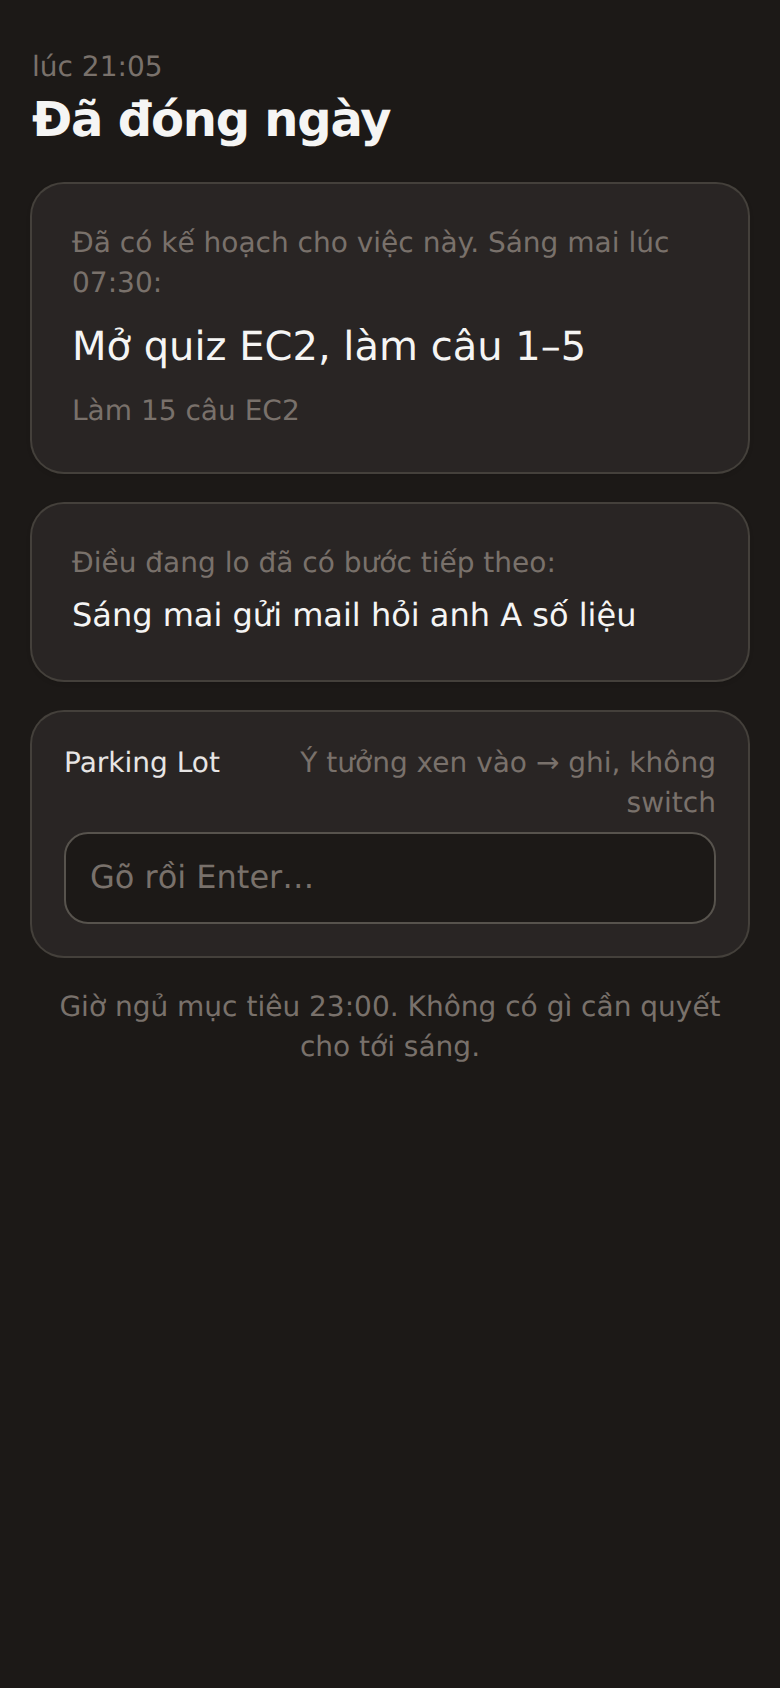
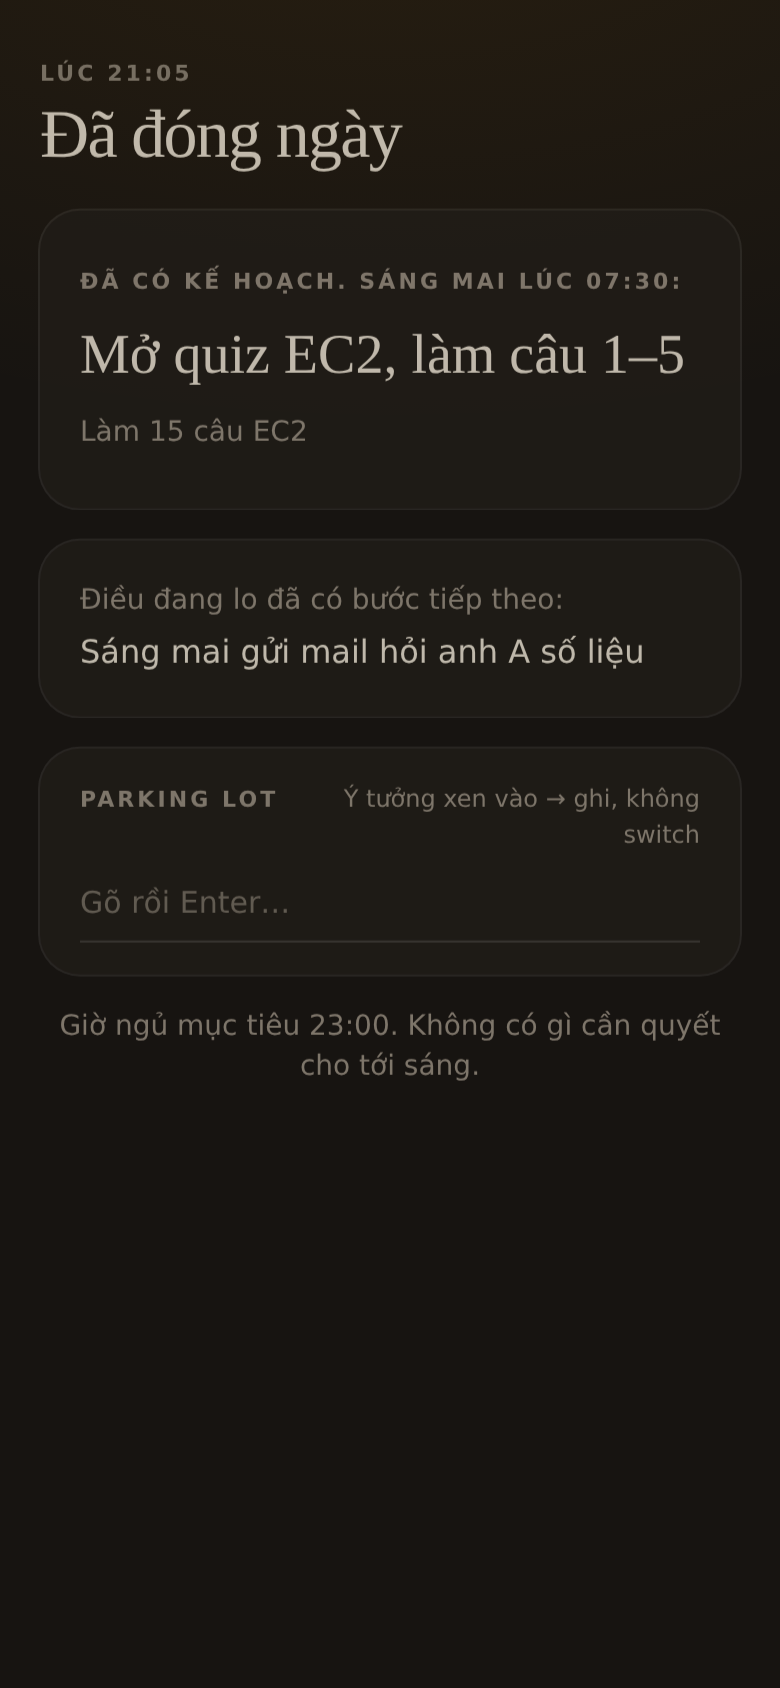
docs: README for v0.2 (i18n, calendar, breaks, Supabase setup), plan status, new screenshots
Claude-Session: https://claude.ai/code/session_01BCiC3tnhB7K4xh2K39qLye

diff --git a/README.md b/README.md
@@ -1,72 +1,95 @@
-# Một Việc
+# Một Việc · One Task
 
 Web app cá nhân chống trì hoãn: **một việc chính mỗi ngày, đóng ngày đúng giờ, quay lại khi trượt**.
+Local-first, cài được lên điện thoại (PWA), tiếng Việt / English, đồng bộ cloud tuỳ chọn qua Supabase free.
 
 Tài liệu: [01 · nghiên cứu](docs/01-research.md) · [02 · brainstorm](docs/02-brainstorm.md) · [03 · plan](docs/03-plan.md) · [parking lot của dự án](docs/parking-lot.md)
 
-| Sáng (1 phút) | Trong ngày | Đóng ngày (3 phút) → Night mode |
-|---|---|---|
-| ![](docs/screenshots/03-morning.png) | ![](docs/screenshots/06-today-timer.png) | ![](docs/screenshots/10-night.png) |
+| Sáng | Trong ngày | Gợi ý nghỉ | Night mode |
+|---|---|---|---|
+| ![](docs/screenshots/03-morning.png) | ![](docs/screenshots/06-today-timer.png) | ![](docs/screenshots/06b-break-suggested.png) | ![](docs/screenshots/10-night.png) |
+
+| Lịch (nhìn lại) | Lịch (đặt việc) | Tuần | Dark mode |
+|---|---|---|---|
+| ![](docs/screenshots/14-calendar-past.png) | ![](docs/screenshots/15-calendar-planned.png) | ![](docs/screenshots/12-week.png) | ![](docs/screenshots/06-today-timer-dark.png) |
 
 ## Vòng đời một ngày
 
-1. **Sáng**: app hiện đúng 1 dòng *Next Action* và hỏi "hôm qua ngủ lúc mấy giờ". Hai nút: **Bắt đầu 10 phút** hoặc **Huỷ…**. Không list, không sửa kế hoạch.
-2. **Trong ngày**: một việc chính, timer đếm ngược. Hết 10 phút app hỏi "thêm 15?" chứ không hỏi "xong chưa?". Tick đủ *Definition of Done* → đóng việc. Ý tưởng xen vào → gõ vào **Parking Lot**, Enter, quay lại. Không có nút Hoãn.
-3. **Huỷ…**: hiện lại đúng câu *hậu quả* bạn tự viết, bắt đọc 5 giây, rồi chọn lý do. "Không muốn làm" chỉ có một nút: *Làm 10 phút rồi quyết*.
-4. **Đóng ngày** (mặc định 21:00): 5 bước. Việc hôm nay xong chưa → *Next Action* cho mai (bắt buộc) → quét Parking Lot về 0 → 1 lo lắng + 1 bước tiếp theo → Đóng.
-5. **Night mode**: khoá tới 04:00. Không tạo, không sửa, không xem list. Chỉ còn ô Parking Lot và câu "Đã có kế hoạch. Sáng mai lúc 07:30: …".
-6. **Tuần**: tối đa 2 mục tiêu (nút Thêm biến mất khi đủ). Review: ngày có ≥10' việc chính, đóng ngày đúng giờ, ngủ so với mục tiêu, **số lần quay lại sau ngày trống** (không có streak), số lần dời việc.
+1. **Sáng**: đúng 1 dòng *bước đầu tiên*, hỏi "hôm qua ngủ lúc mấy giờ". Hai nút: **Bắt đầu 10 phút** hoặc **Huỷ…**. Không list.
+2. **Trong ngày**: một việc chính, timer đếm ngược. Hết 10 phút app hỏi "thêm 15?" chứ không hỏi "xong chưa?". Tập trung liền 25 phút thì gợi ý **nghỉ 5 phút** (không bắt buộc, phút nghỉ không tính vào phút làm). Ý tưởng xen vào → **Parking Lot**, Enter, quay lại. Không có nút Hoãn.
+3. **Huỷ…**: nếu bạn đã viết *hậu quả*, app hiện lại đúng câu đó và bắt đọc 5 giây, rồi chọn lý do. "Không muốn làm" chỉ có một nút: *Làm 10 phút rồi quyết*.
+4. **Đóng ngày** (mặc định 21:00): 5 bước. Việc hôm nay xong chưa → việc chính cho mai → quét Parking Lot về 0 → 1 lo lắng + 1 bước tiếp theo → Đóng.
+5. **Night mode**: khoá tới 04:00. Không tạo, không sửa, không xem list. Chỉ còn ô Parking Lot và "Đã có kế hoạch. Sáng mai lúc 07:30: …".
+6. **Lịch**: quá khứ chỉ đọc (ô tô màu theo có làm, chấm xanh đóng ngày đúng giờ, chấm đỏ ngủ muộn). Tương lai tối đa **14 ngày**: đặt đúng một việc chính cho ngày đó. Xa hơn: app bảo ghi vào Parking Lot.
+7. **Tuần**: tối đa 2 mục tiêu. Review: ngày có ≥10′ việc chính, đóng ngày đúng giờ, ngủ so với mục tiêu, **số lần quay lại sau ngày trống** (không có streak), số lần dời việc.
 
-Tạo việc bắt buộc 5 trường: **Việc** (động từ + đếm được; bộ lọc mơ hồ chặn "Học AWS", nhận "Làm 20 câu S3") · **DoD** (mỗi dòng 1 mục kiểm được) · **Hậu quả nếu không làm** · **Ước lượng** (≤ 90 phút, quá thì bắt tách) · **Next Action**.
+Tạo việc chỉ cần **tên việc**. Bước đầu tiên, khi nào gọi là xong, hậu quả, ước lượng đều tuỳ chọn, chỉ có gợi ý ngắn. Tên mơ hồ ("Học AWS") được gợi ý nhẹ, không bị chặn.
 
 ## Chạy
 
 ```bash
 npm install
 npm run dev        # http://localhost:5173/
-npm test           # 47 test Vitest (logic + Dexie trên fake-indexeddb)
+npm test           # Vitest: logic thuần + Dexie trên fake-indexeddb + sync engine với remote giả
 npm run build      # tsc + vite build + service worker
 ```
 
-Test/demo bằng giờ giả lập (giữ trong tab cho tới khi `?reset-clock`):
+Giả lập thời gian để xem mọi màn hình (giữ trong tab cho tới khi `?reset-clock`):
 
 ```
 http://localhost:5173/?d=2026-09-08&t=07:30   # sáng
+http://localhost:5173/?d=2026-09-08&t=08:00   # timer hết giờ, gợi ý nghỉ
 http://localhost:5173/?d=2026-09-08&t=21:05   # đến giờ đóng ngày
 http://localhost:5173/?d=2026-09-09&t=00:30   # vẫn là đêm hôm trước (ngày logic đổi lúc 04:00)
 ```
 
-Playwright walkthrough (đi hết 2 ngày, chụp màn hình vào `e2e/shots/`):
+Playwright walkthrough (đi hết 2 ngày, chụp light/dark vào `e2e/shots/`):
 
 ```bash
 npm i -D playwright && npx playwright install chromium
-npm run build && npm run preview &   # cổng 4173
-node e2e/walkthrough.mjs
+npm run build && npm run preview &          # cổng 4173
+node e2e/walkthrough.mjs                    # thêm DARK=1 cho bản tối
 ```
 
-## Deploy
+## Deploy (GitHub Pages, miễn phí)
 
-GitHub Actions build + deploy lên GitHub Pages khi push `main` (`.github/workflows/deploy.yml`). Cần bật một lần: **Settings → Pages → Source: GitHub Actions**. Base path lấy theo tên repo, URL: `https://<user>.github.io/<repo>/`. Deploy nơi khác thì đặt `VITE_BASE`.
+Push `main` → Actions build + deploy. Bật một lần: **Settings → Pages → Source: GitHub Actions**. Base path lấy theo tên repo: `https://<user>.github.io/<repo>/`. Trên điện thoại: mở URL → "Thêm vào màn hình chính".
 
-Cài lên điện thoại: mở URL → "Thêm vào màn hình chính" (PWA, chạy offline).
+## Đồng bộ cloud (tuỳ chọn, Supabase free)
+
+Không cấu hình gì thì app chạy hoàn toàn trong trình duyệt. Muốn dùng trên nhiều máy:
+
+1. Tạo project tại https://supabase.com (free, không cần thẻ). Free project tự tạm dừng sau 7 ngày không dùng; bấm Restore là chạy lại.
+2. **SQL Editor** → dán và chạy [`supabase/migrations/0001_records.sql`](supabase/migrations/0001_records.sql) (1 bảng `records` jsonb + Row Level Security theo user).
+3. **Authentication → URL Configuration**: Site URL = `https://<user>.github.io/<repo>/`, thêm URL đó vào Redirect URLs. Email provider để mặc định (magic link).
+4. **Project Settings → API**: copy `Project URL` và `anon public` key.
+5. GitHub repo → **Settings → Secrets and variables → Actions → Variables**: tạo `VITE_SUPABASE_URL` và `VITE_SUPABASE_ANON_KEY`. Push lại (hoặc Re-run workflow).
+6. Trong app: **Cài đặt → Tài khoản & đồng bộ** → nhập email → bấm link trong mail.
+
+Local dev: copy `.env.example` → `.env.local` và điền 2 biến. Anon key là public theo thiết kế; dữ liệu được bảo vệ bằng RLS (`auth.uid() = user_id`).
+
+Cách sync hoạt động: mọi ghi vào IndexedDB đều đặt `updatedAt` và xếp vào `outbox`; app đẩy outbox lên `records` và kéo về các dòng mới hơn con trỏ của máy, ai ghi sau thắng. Xoá là xoá mềm. Lần đăng nhập đầu trên một máy, toàn bộ dữ liệu local được đẩy lên để hợp nhất với máy khác.
 
 ## Stack
 
-Vite 8 · React 19 · TypeScript · Tailwind 4 · Dexie 4 (IndexedDB, local-first, không backend, không tài khoản) · vite-plugin-pwa · Vitest · Playwright (e2e thủ công).
+Vite 8 · React 19 · TypeScript · Tailwind 4 (token giấy/mực, dark theo hệ) · Dexie 4 (IndexedDB) · lucide-react · @supabase/supabase-js · vite-plugin-pwa · Vitest · Playwright.
 
 ```
 src/
-  lib/        dates, clock (giờ giả lập), phase (morning/day/night), vagueness (bộ lọc mơ hồ),
-              metrics (review tuần), db (Dexie schema), actions (mọi thao tác ghi) + *.test.ts
-  components/ ui, TaskForm, CancelFlow, FocusTimer, ParkingLot
-  screens/    Morning, Today, Shutdown, Night, Week, Settings
+  i18n/       vi.ts, en.ts, index.ts (t(), fmtDate)
+  lib/        dates, clock (giờ giả lập), phase, vagueness (gợi ý mềm), calendar, metrics,
+              db (Dexie v3 + put/patch/softDelete + outbox), actions + *.test.ts
+  sync/       remote (interface + MemoryRemote), engine (push/pull/LWW), supabase (adapter), index (auth + lịch sync)
+  components/ ui, TaskForm, CancelFlow, FocusTimer, ParkingLot, AccountCard
+  screens/    Morning, Today, Shutdown, Night, Calendar, Week, Settings
   App.tsx     state machine theo ngày logic + nav
+supabase/migrations/0001_records.sql
 ```
 
 ## Nguyên tắc sản phẩm
 
 1. Một màn hình, một việc, một nút.
-2. Kế hoạch ra buổi tối, sáng chỉ thực thi. Sáng không đàm phán.
+2. Kế hoạch ra buổi tối, sáng chỉ thực thi.
 3. Khoá thay cho nhắc.
 4. Ma sát đúng chỗ: dễ khi bắt đầu, khó khi trốn, không thể sau khi đóng ngày.
 5. Đo lần quay lại, không đo chuỗi.

diff --git a/docs/03-plan.md b/docs/03-plan.md
@@ -1,8 +1,8 @@
 # 03 · Plan phát triển web app "Một Việc"
 
-> **Trạng thái (2026-09-07):** M0–M4 đã code xong trong một phiên, 47 test pass, e2e walkthrough pass.
-> Việc còn lại của MVP là **dùng thật 4 tuần** và đo (mục "Cột mốc đánh giá"), không phải thêm tính năng.
-> Khác biệt so với plan gốc: xem mục 8.
+> **Trạng thái (2026-09-08):** M0–M4 xong (v0.1), rồi v0.2 theo yêu cầu review: UI mới, vi/en, form mềm,
+> nghỉ tích hợp, lịch tháng, Supabase sync tuỳ chọn. 65 test pass, e2e walkthrough pass, deploy Pages xanh.
+> Việc còn lại của MVP là **dùng thật 4 tuần** và đo (mục "Cột mốc đánh giá"). Khác biệt so với plan gốc: mục 8.
 
 > Plan này tự áp dụng chính các rule của app: mỗi milestone là **1 việc chính**, có **Definition of Done** kiểm được,
 > ước lượng nhỏ, và có **Next Action** cho buổi làm việc đầu tiên. Không mở milestone mới khi milestone cũ chưa đóng.
@@ -158,3 +158,16 @@ Push notification giờ Shutdown · AI concretizer · Sync Supabase · Body-doub
 4. Tab **Tuần**: nhập 1–2 mục tiêu tuần này.
 5. Tab **Hôm nay**: tạo việc chính hôm nay. Bấm Bắt đầu 10 phút.
 6. Tối nay đúng giờ: Đóng ngày. Xong.
+
+## 10. v0.2 (2026-09-08) — thay đổi theo review và đánh giá cần thiết
+
+| Yêu cầu | Đánh giá | Đã làm |
+|---|---|---|
+| UI đẹp hơn | **Cần.** App dùng hằng ngày, xấu thì bỏ. | Hệ màu giấy/mực + hổ phách, serif hiển thị, dark theo hệ, nav icon, motion nhẹ. |
+| en/vi | Không cần cho 1 người dùng, nhưng rẻ và hữu ích nếu chia sẻ. | Tự viết `t()`, mặc định theo trình duyệt, đổi trong Cài đặt. |
+| Calendar | Lịch **chỉ đọc** hợp triết lý; lịch **lên kế hoạch** có rủi ro thành backlog. User giữ quyết định làm lên kế hoạch. | Làm cả hai nhưng giới hạn: 1 việc/ngày, chỉ 14 ngày tới, xa hơn bị chặn kèm gợi ý Parking Lot. |
+| Pomodoro | Vấn đề là **bắt đầu**, không phải duy trì → không cốt lõi; nghỉ có chủ đích thì hữu ích. | Không có chế độ riêng. Sau 25′ liền, prompt hết giờ đưa "Nghỉ 5′" lên trước. |
+| Bỏ validate chặn | Quyết định của user. Rủi ro: task mơ hồ lọt lưới. | Chỉ tên việc bắt buộc; bộ lọc mơ hồ thành gợi ý mềm; mọi màn hình chịu được trường rỗng. |
+| Cloud DB free | Cần nếu dùng 2 máy hoặc sợ mất dữ liệu. | Supabase free + magic link, local-first + outbox + LWW. Không cấu hình thì app vẫn chạy thuần local. |
+
+Việc user cần làm để bật sync: xem README mục "Đồng bộ cloud".
